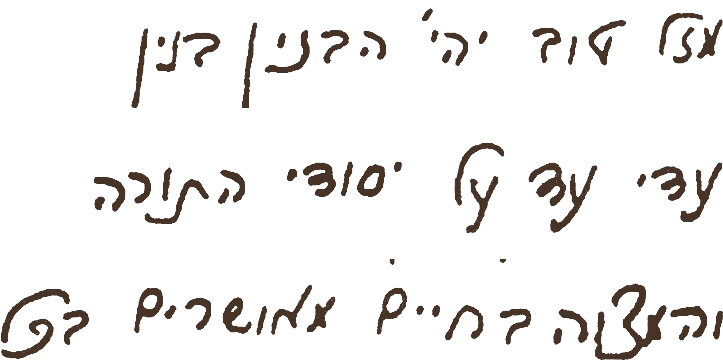
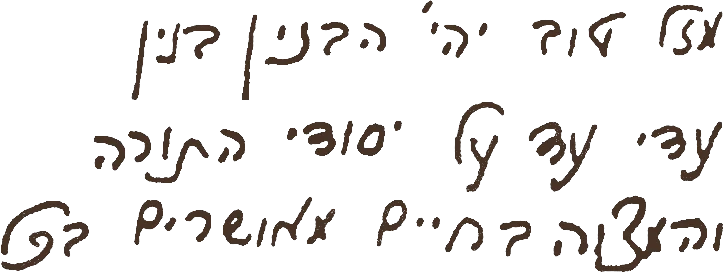
Hero: more space, handwriting tighter and shifted left, timer partly below the fold
Claude-Session: https://claude.ai/code/session_01UUGnTPbvLskfuD8Xfb7C9e

diff --git a/src/guest-rivka.html b/src/guest-rivka.html
@@ -33,10 +33,11 @@ h1,h2,h3,.date,.dname,.tcard h3,.hi,.done h3,.yechi,.parents2 b,.clock b,.tcard 
 .hero{position:relative;isolation:isolate;overflow:hidden;min-height:100vh;min-height:100svh;display:flex;flex-direction:column;text-align:center;
   background:#DCD4CA url(/img/cloth-p.webp) left top/cover no-repeat}
 .hero-top{flex:1;display:flex;flex-direction:column;align-items:center;justify-content:space-evenly;padding:max(210px,27svh) 5vw clamp(40px,8vw,70px)}
+.hero-top{min-height:calc(100svh - 110px)}
 .hero-top .when-b{margin-top:auto;margin-bottom:auto}
-.hero-top .who{margin-top:0}
+.hero-top .who{margin-top:0;margin-bottom:clamp(40px,11vw,110px)}
 .bh{position:absolute;top:clamp(12px,2vw,22px);right:clamp(14px,2.4vw,30px);margin:0;font-size:clamp(14px,1.4vw,18px);color:var(--ink-deep);z-index:2}
-.quote{position:absolute;top:clamp(44px,7vw,70px);right:clamp(16px,4vw,48px);width:clamp(160px,44vw,360px);height:auto;z-index:1}
+.quote{position:absolute;top:clamp(44px,7vw,70px);right:clamp(34px,10vw,140px);width:clamp(160px,44vw,360px);height:auto;z-index:1}
 .kicker{margin:0;font-size:clamp(20px,5.2vw,30px);letter-spacing:.04em;color:var(--ink);font-weight:500}
 .names{display:block;width:clamp(280px,86vw,900px);height:auto;margin-top:clamp(6px,1.4vw,14px);filter:drop-shadow(0 1px 1px rgba(80,60,46,.55)) drop-shadow(0 4px 16px rgba(80,60,46,.3))}
 .date{margin:0;font-size:clamp(26px,7vw,64px);font-weight:600;line-height:1.15;color:var(--ink-deep)}
@@ -173,9 +174,11 @@ textarea{width:100%;font-size:17px;border:1px solid var(--line);border-radius:14
   @keyframes bob{0%,100%{transform:translateY(0)}50%{transform:translateY(7px)}}
 }
 @media (min-aspect-ratio:1/1){
-  .hero{background-image:url(/img/cloth.webp);height:100svh;min-height:600px}
-  .hero-top{padding-top:15vh;padding-bottom:2vh}
-  .quote{width:min(24vw,30vh)}
+  .hero{background-image:url(/img/cloth.webp);min-height:600px}
+  .hero-top{min-height:calc(100svh - 130px)}
+  .hero-top{padding-top:15vh;padding-bottom:9vh}
+  .hero-top .who{margin-bottom:5vh}
+  .quote{width:min(26vw,34vh)}
   .names{width:min(64vw,86vh)}
   .date{font-size:min(5.6vw,6vh)}
   .greg{font-size:min(2.8vw,3vh)}
@@ -188,7 +191,7 @@ textarea{width:100%;font-size:17px;border:1px solid var(--line);border-radius:14
 <header class="hero">
   <p class="bh">ב״ה</p>
   <div class="hero-top">
-    <img class="quote" src="/img/quote3.webp" alt="ברכה בכתב יד: צדי׳ טוב יהי׳ הבנין בנין עדי עד על יסודי התורה והמצוה בחיים מאושרים" width="723" height="360">
+    <img class="quote" src="/img/quote3.webp" alt="ברכה בכתב יד: צדי׳ טוב יהי׳ הבנין בנין עדי עד על יסודי התורה והמצוה בחיים מאושרים" width="723" height="272">
     <div class="who">
       <p class="kicker">בשמחה רבה אנו מזמינים אתכם לחתונת</p>
       <h1 style="margin:0"><img class="names" src="/img/names.webp" alt="מענדי ורבקה" width="860" height="168"></h1>
